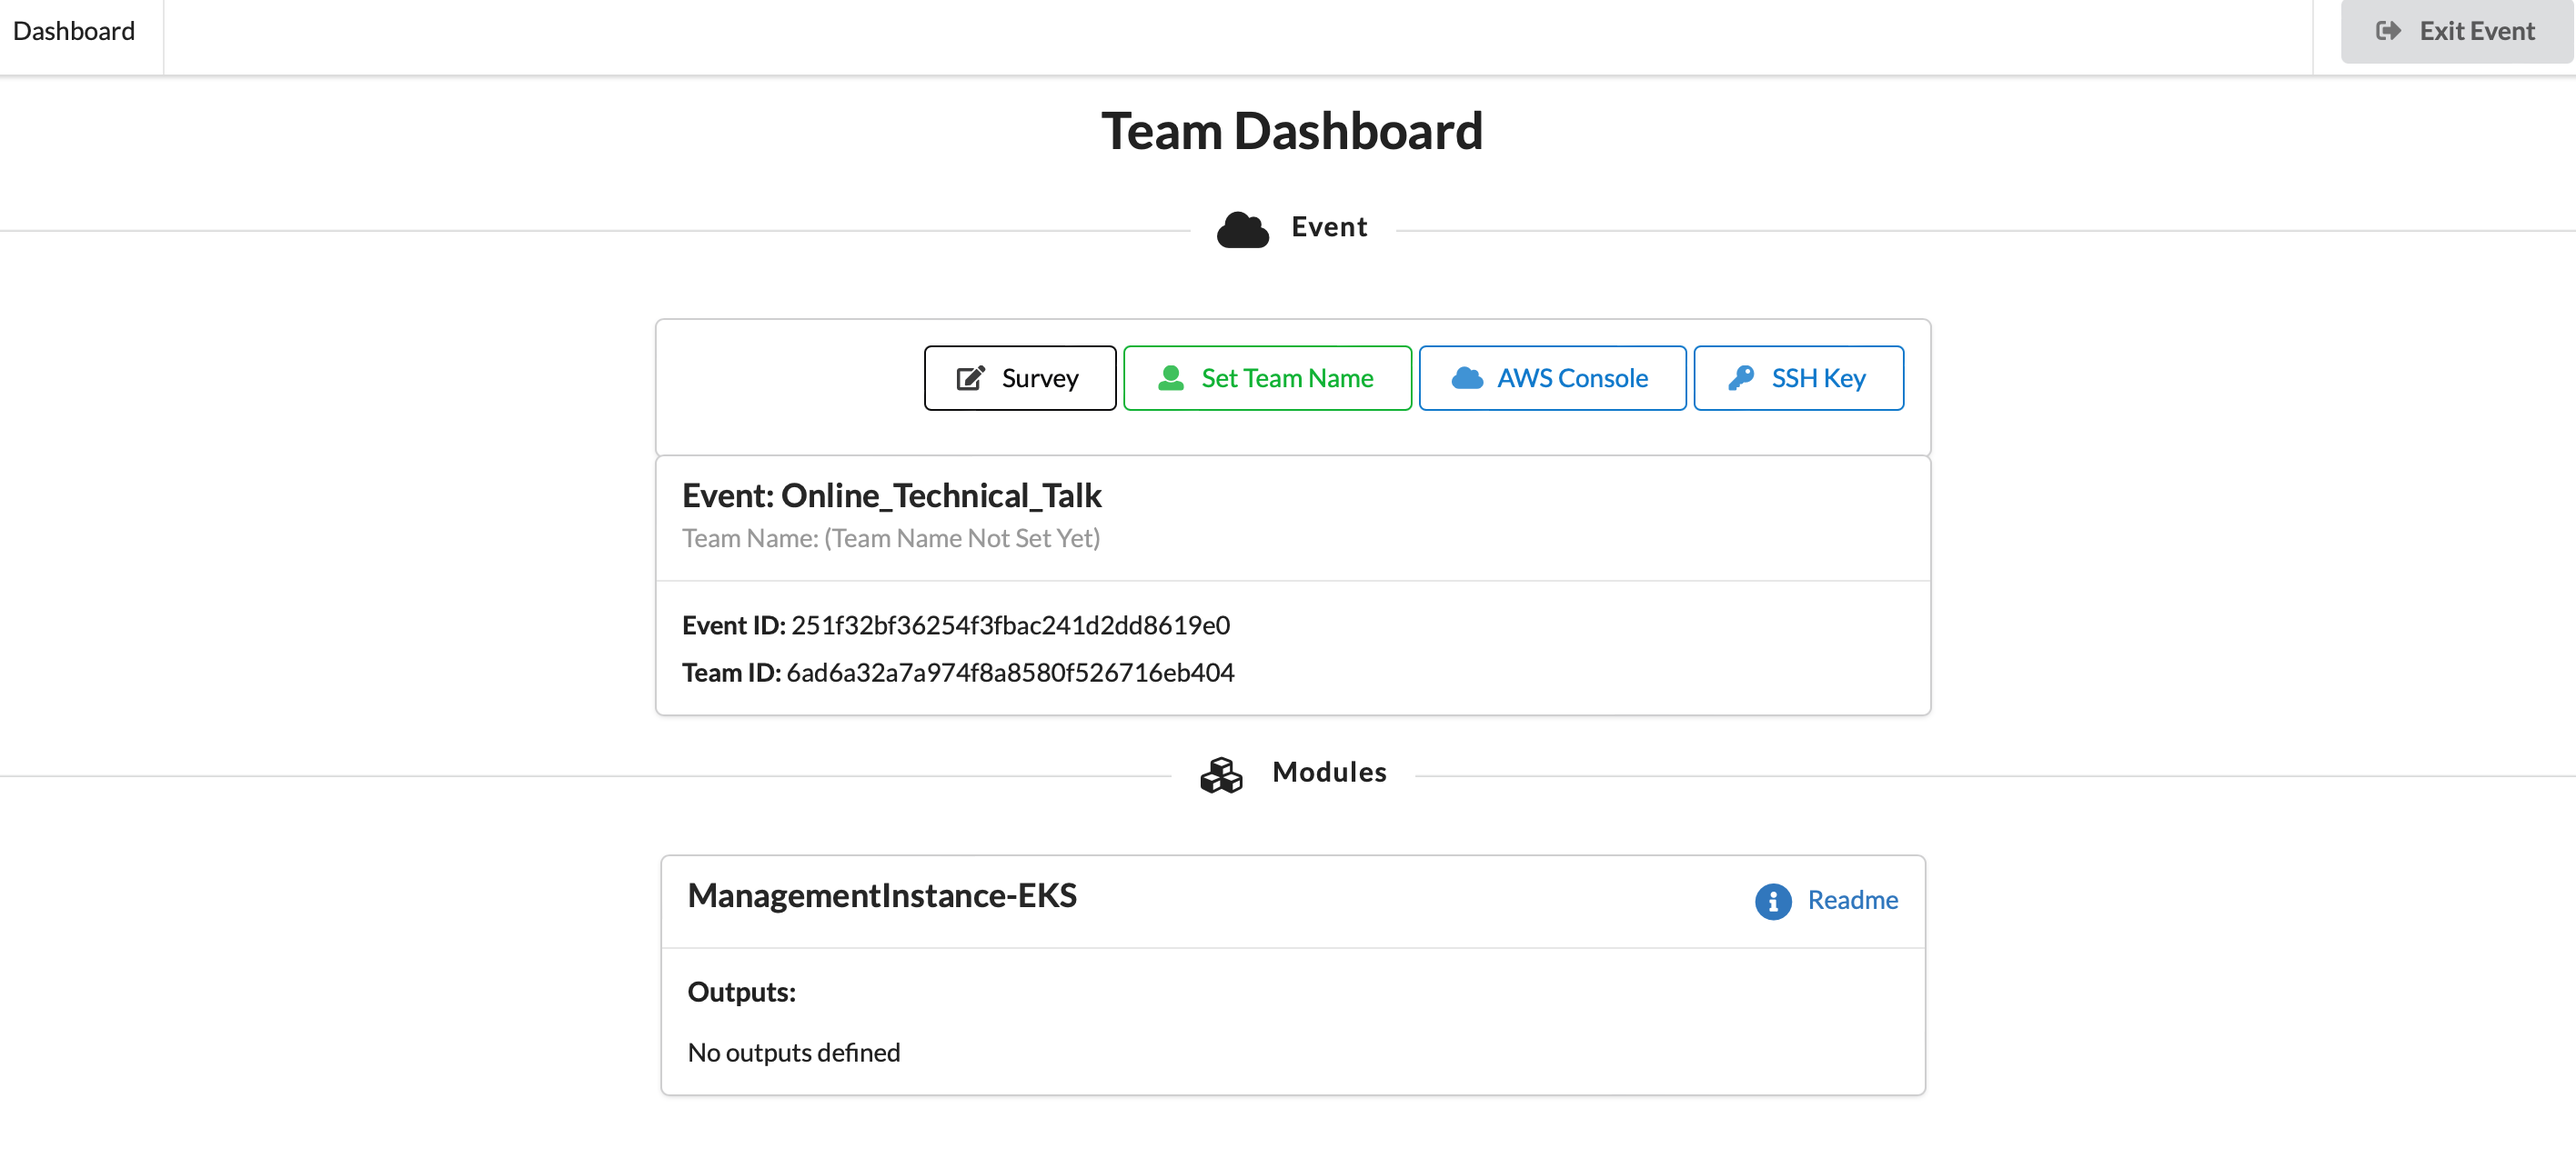
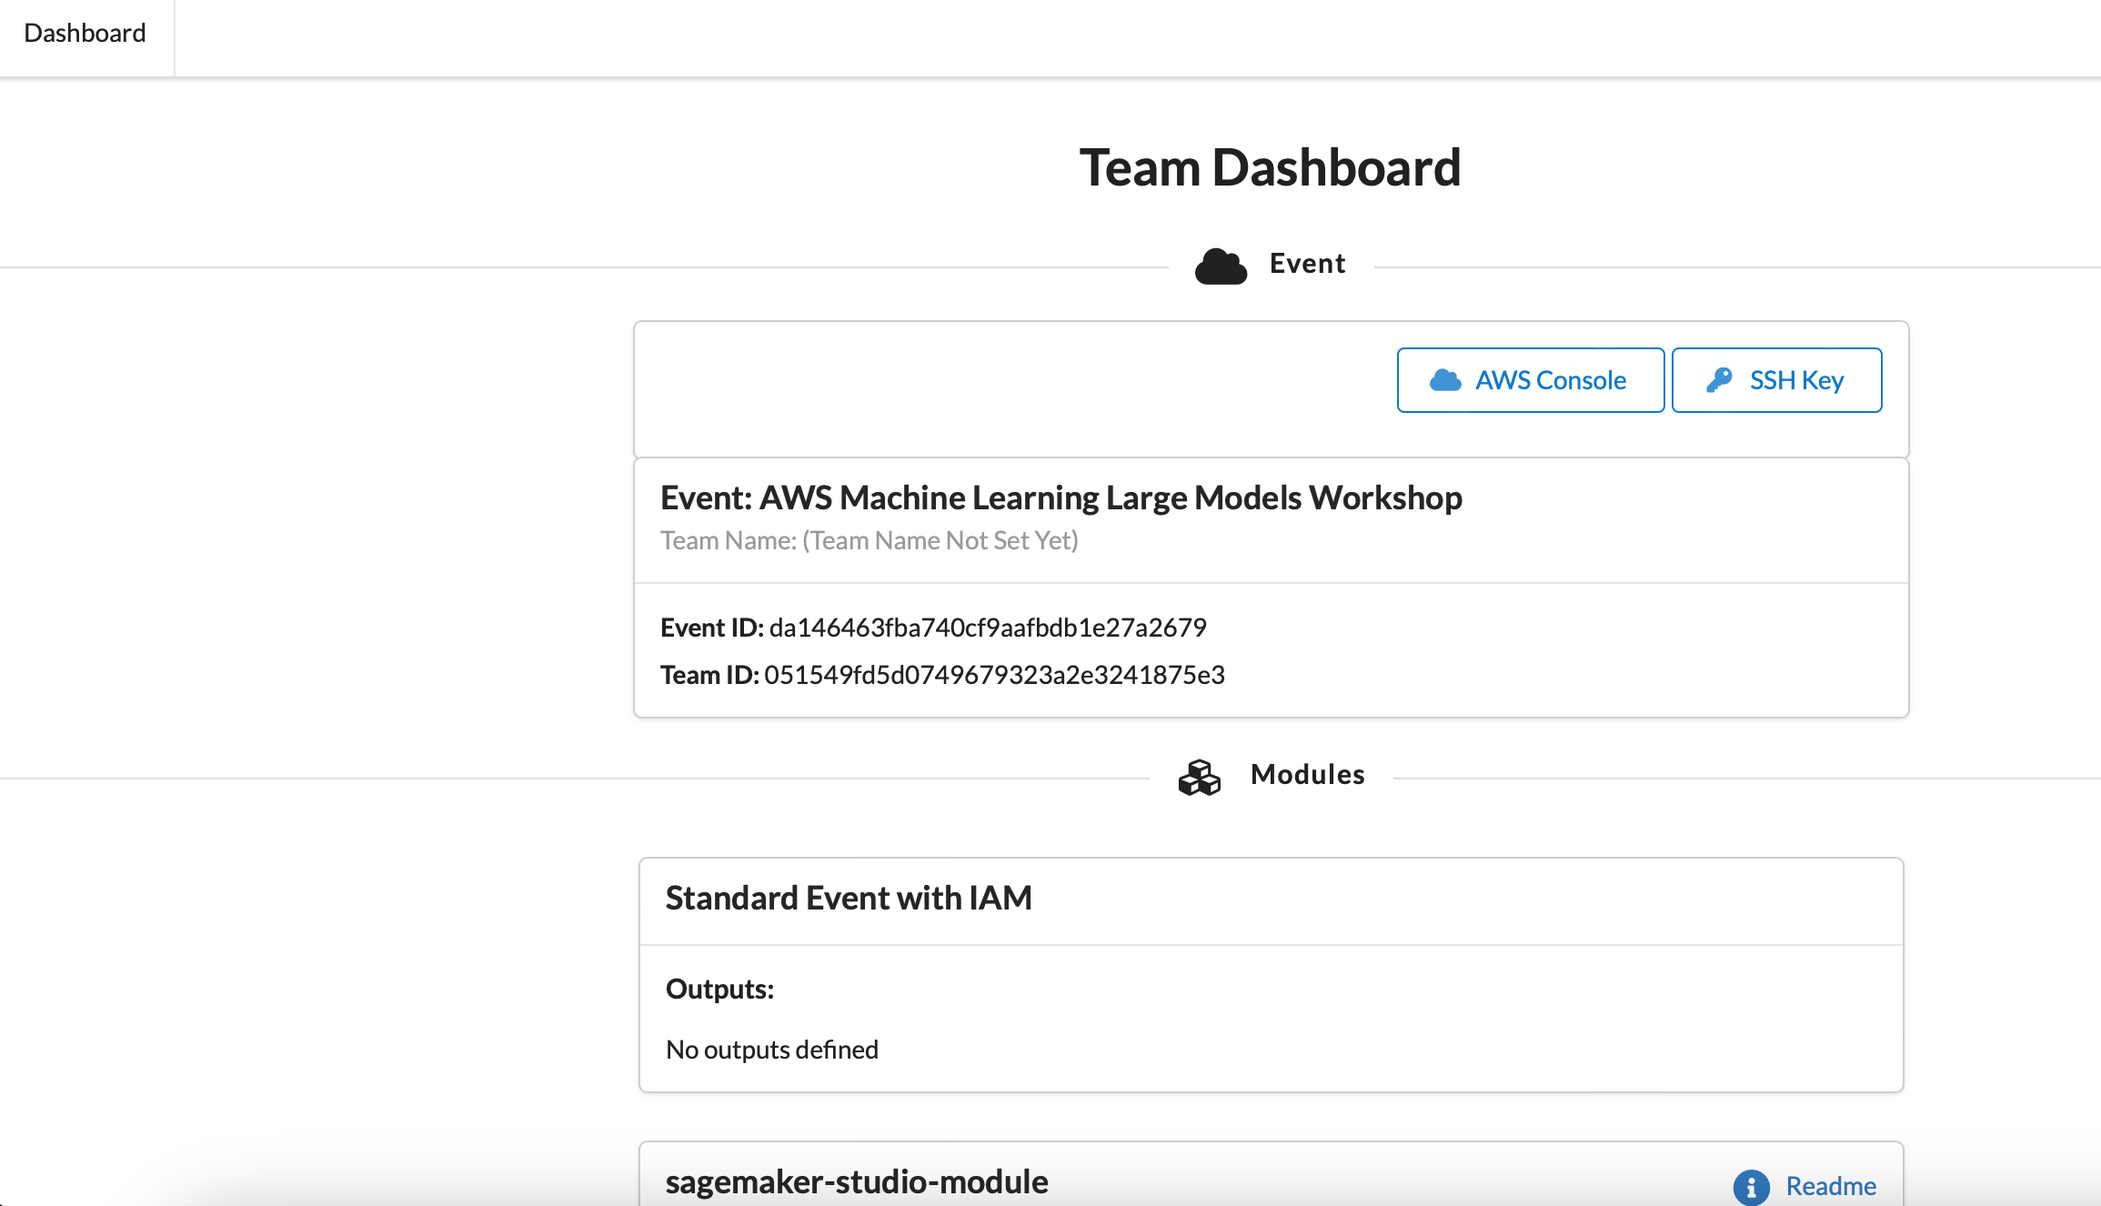
checking in lab instructions

diff --git a/STEP1_AWS_LOGIN.md b/STEP1_AWS_LOGIN.md
@@ -2,16 +2,13 @@
 
 ## Set up AWS Accounts
 
-1 If you are running the workshop **on your own** and you don’t already have an AWS account with Administrator access, please create one now by clicking here (https://aws.amazon.com/getting-started/). 
-
-2 If you are running the workshop **at an AWS Event or with AWS teams**, Login to AWS Workshop Portal by clicking the button or browsing to https://dashboard.eventengine.run/
+Login to AWS Workshop Portal by clicking the link https://bit.ly/aws-access
 
 The following screen shows up.
 
 <center><img src="img/event_engine_login_screen.png" width="80%"/> </center> <br/><br/>
 
-3 Enter the provided hash (will be provided in the chat by the event administrator) in the text box. The button on the bottom right corner activates to Accept Terms & Login. Click on that button to continue the next screen below.
-
+3 Click on Accept Terms & Login button to continue the next screen below.
 
 <center><img src="img/one_time_password.png" width="80%"/> </center><br/><br/>
 

diff --git a/02_22_LLM_WORKSHOP.md b/02_22_LLM_WORKSHOP.md
@@ -1,0 +1,16 @@
+# AWS Machine Learning Large Models Workshop
+
+# WorkShop Steps
+
+Note: This workshop has been tested in us-east-1 region. 
+
+This workshop is organized in a number of sequential steps. Steps 1 through 3 are required to complete the workshop.
+
+## 1. Login to AWS Account ([STEP1_AWS_LOGIN.md](https://raw.githubusercontent.com/aws-samples/sagemaker-distributed-training-workshop/main/STEP1_AWS_LOGIN.md))
+
+## 2. Setup Amazon SageMaker ([STEP2_STUDIO_SETUP.md](https://github.com/aws-samples/eks-kubeflow-cloudformation-quick-start/blob/master/workshop/pytorch-distributed-training/STEP0.2_INSTALL.md#installation-of-kubeflow-eks-using-terraform))
+
+## 3 Run the use case examples 
+Once you have logged in to Studio, run the following labs:
+Lab1: https://github.com/aws-samples/sagemaker-distributed-training-workshop/tree/main/1_data_parallel/Lab1_stable_diffusion
+Lab2: https://github.com/aws-samples/sagemaker-distributed-training-workshop/tree/main/2_model_parallel_sdp
